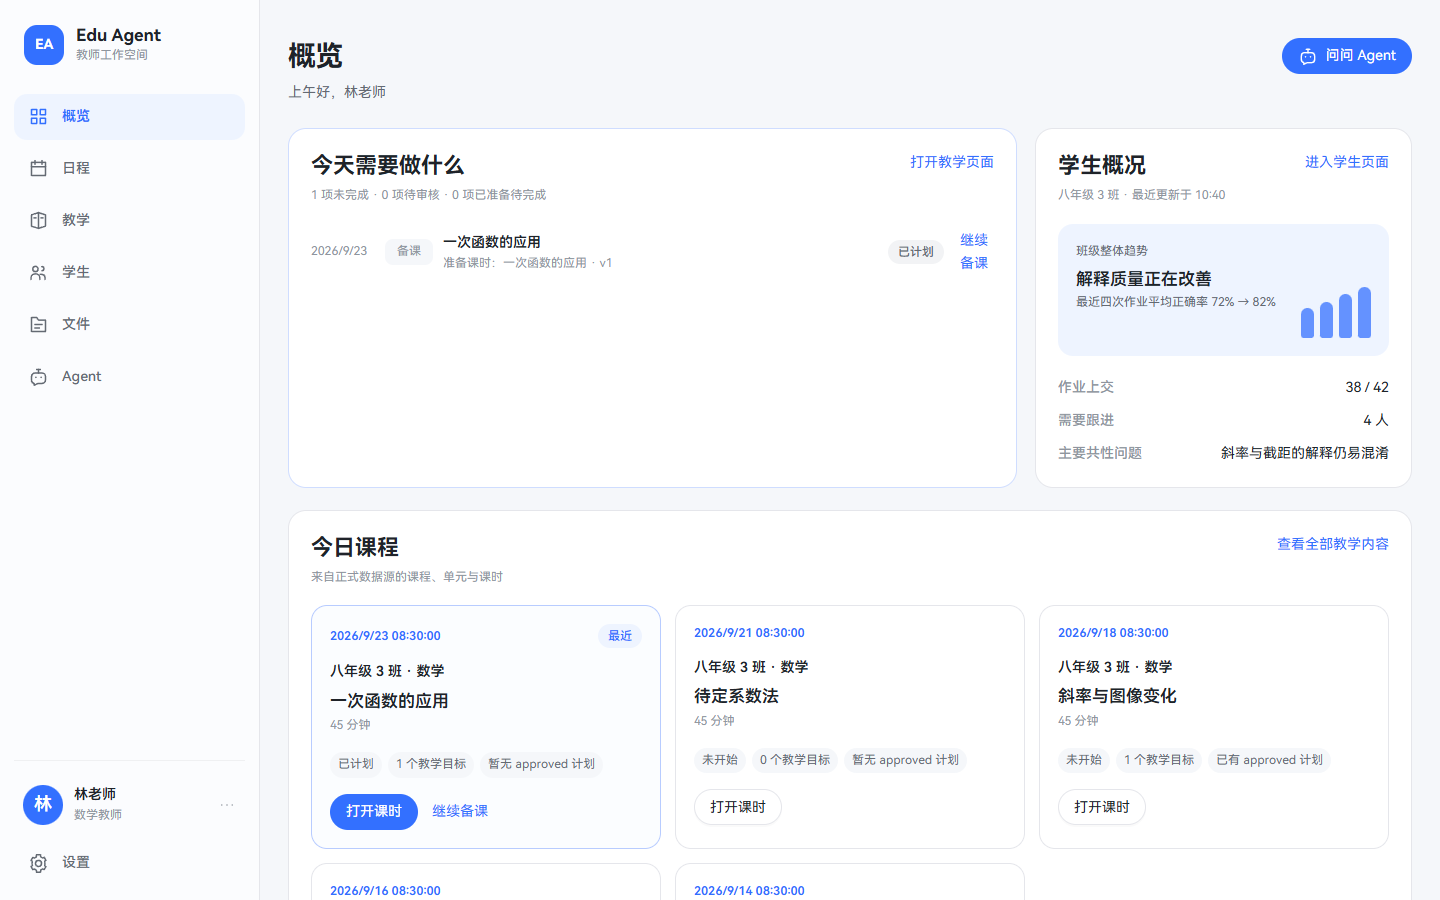
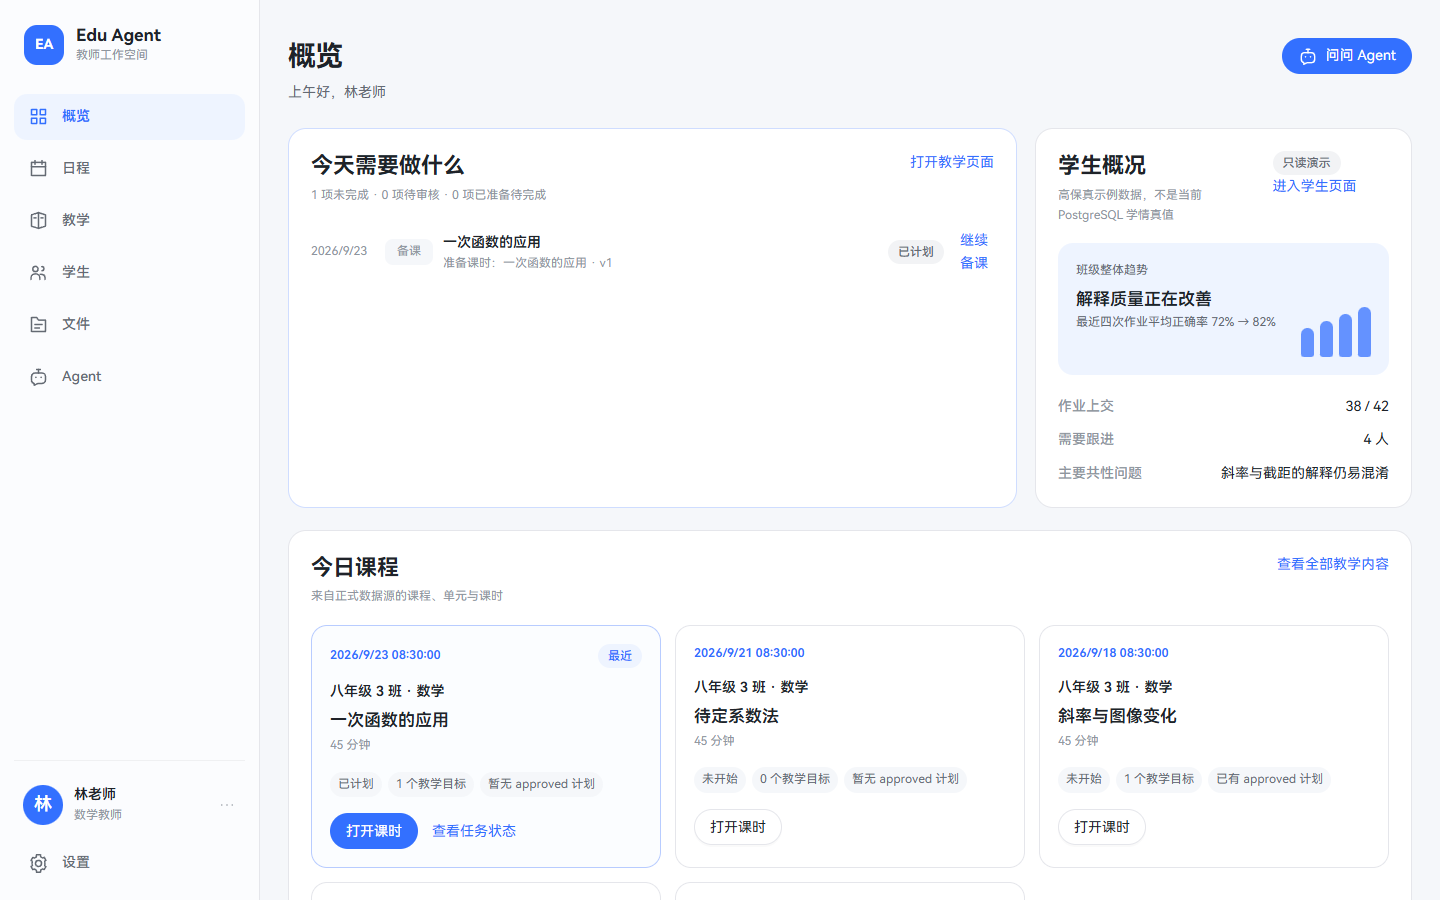
test: verify teacher product consistency and recovery

diff --git a/tests/playwright/teacher-copilot.spec.ts b/tests/playwright/teacher-copilot.spec.ts
@@ -486,6 +486,17 @@ test("Gate 2.4 recovers a teacher request, reviews and approves a plan, then rej
   const firstRequest =
     "根据一次函数学习证据，比较明天课堂的两种调整策略";
   await taskInput.fill(firstRequest);
+  let delayFirstInvocationRead = true;
+  await page.route(/\/model-invocations\/[^/?]+(?:\?.*)?$/, async (route) => {
+    if (
+      delayFirstInvocationRead &&
+      route.request().method() === "GET"
+    ) {
+      delayFirstInvocationRead = false;
+      await new Promise((resolve) => setTimeout(resolve, 700));
+    }
+    await route.continue();
+  });
   const createResponse = page.waitForResponse(
     (response) =>
       response.url().endsWith(
@@ -726,6 +737,7 @@ test("Gate 2.5 completes a recoverable Lesson → Task → Proposal → approved
   await page.getByTestId("generate-copilot").click();
   const createdResponse = await createResponse;
   expect(createdResponse.status()).toBe(202);
+  await expect(page.getByTestId("generate-copilot")).toBeDisabled();
   const created = await createdResponse.json();
   expect(created.execution.taskRef).toBeTruthy();
   expect(
@@ -781,6 +793,17 @@ test("Gate 2.5 completes a recoverable Lesson → Task → Proposal → approved
   await page.getByRole("button", { name: "查看教学计划" }).click();
   await expect(page).toHaveURL(/\/teaching-plan\/tasks\//);
   await expect(
+    page.getByRole("heading", { name: "你正在查看当前待审核版本" })
+  ).toBeVisible();
+  await expect(
+    page.getByRole("heading", { name: "你正在查看历史版本" })
+  ).toHaveCount(0);
+  await page.screenshot({
+    path: `${screenshotRoot}/22-gate2-5c-active-in-review.png`,
+    fullPage: true,
+    animations: "disabled"
+  });
+  await expect(
     page.getByTestId("teaching-plan-preparation-task")
   ).toContainText("awaiting_plan_review");
   await page.getByTestId("approve-teaching-plan").click();
@@ -798,6 +821,20 @@ test("Gate 2.5 completes a recoverable Lesson → Task → Proposal → approved
     initialPlans.currentApproved.revisionRef
   );
   expect(afterApproval.activeInReview).toBeNull();
+
+  await page.getByRole("button", { name: "返回课时" }).click();
+  await expect(page).toHaveURL(
+    /\/teaching\/lessons\/lesson(?:%3A|:)slope-and-graph-change/
+  );
+  await expect(page.getByTestId("finish-ready-preparation")).toBeVisible();
+  await expect(page.getByTestId("start-lesson-preparation")).toHaveCount(0);
+  await page.screenshot({
+    path: `${screenshotRoot}/23-gate2-5c-ready-action.png`,
+    fullPage: true,
+    animations: "disabled"
+  });
+  await page.getByTestId("finish-ready-preparation").click();
+  await expect(page).toHaveURL(/\/teaching-plan\/tasks\//);
 
   const exportResponse = page.waitForResponse(
     (response) =>
@@ -832,6 +869,7 @@ test("Gate 2.5 completes a recoverable Lesson → Task → Proposal → approved
 
   await page.getByRole("button", { name: "返回备课 Task" }).click();
   await expect(page).toHaveURL(/\/agent\/tasks\//);
+  await expect(page.getByTestId("completed-task-review-only")).toBeVisible();
   await taskInput.fill(
     "创建第二条建议，用于验证拒绝不会改变已批准计划。"
   );
@@ -839,6 +877,9 @@ test("Gate 2.5 completes a recoverable Lesson → Task → Proposal → approved
   await expect(
     page.getByRole("heading", { name: "比较教学策略" })
   ).toBeVisible({ timeout: 20_000 });
+  await expect(page.getByTestId("accept-suggestion")).toBeDisabled();
+  await expect(page.getByTestId("edit-suggestion")).toBeDisabled();
+  await expect(page.getByTestId("reject-suggestion")).toBeEnabled();
   await page.getByTestId("reject-suggestion").click();
   await expect(page.getByText("已拒绝")).toBeVisible({
     timeout: 20_000
@@ -899,6 +940,19 @@ test("Gate 2.5 completes a recoverable Lesson → Task → Proposal → approved
   await expect(page.getByTestId("file-version-history")).toContainText("v2");
   await expect(page.getByTestId("file-version-history")).toContainText("v1");
   await expect(
+    page.getByTestId("file-detail").getByRole("button", {
+      name: "创建新版本"
+    })
+  ).toBeDisabled();
+  await expect(
+    page.getByTestId("file-detail").getByRole("button", {
+      name: "创建新版本"
+    })
+  ).toHaveAttribute(
+    "title",
+    "正式教案的新版本只能从新的 approved TeachingPlan Revision 导出"
+  );
+  await expect(
     page.getByTestId("file-detail").getByRole("button", { name: /删\s*除/ })
   ).toBeDisabled();
   await expect(
@@ -939,8 +993,43 @@ test("Gate 2.5 completes a recoverable Lesson → Task → Proposal → approved
 
   await page.goto("/teaching");
   await page.getByTestId("lesson-3").click();
+  await expect(page.getByTestId("lesson-detail")).toContainText("已完成");
+  await expect(
+    page.getByTestId("lesson-detail").getByRole("button", {
+      name: "查看已完成备课"
+    })
+  ).toBeVisible();
   await expect(page.getByTestId("lesson-related-files")).toContainText(
     "斜率与图像变化 教案"
+  );
+  await page
+    .getByTestId("lesson-related-files")
+    .getByRole("button", { name: /斜率与图像变化 教案/ })
+    .click();
+  await expect(page).toHaveURL(
+    /\/files\?asset=.*&lesson=lesson(?:%3A|:)slope-and-graph-change/
+  );
+  await expect(
+    page
+      .getByLabel("上传关联课时")
+      .locator("xpath=ancestor::*[contains(@class, 'ant-select')][1]")
+  ).toContainText("斜率与图像变化");
+  await page.screenshot({
+    path: `${screenshotRoot}/24-gate2-5c-file-context.png`,
+    fullPage: true,
+    animations: "disabled"
+  });
+
+  await page.goto("/teaching");
+  await page.getByTestId("lesson-5").click();
+  await expect(page.getByTestId("lesson-detail")).toContainText("已计划");
+  await page.getByRole("button", { name: "取消备课" }).click();
+  await page.getByRole("button", { name: "确认取消" }).click();
+  await expect(page.getByTestId("lesson-detail")).toContainText("已取消");
+  await page.getByTestId("reopen-lesson-preparation").click();
+  await expect(page).toHaveURL(/\/agent\/tasks\//);
+  await expect(page.getByTestId("task-working-set")).toContainText(
+    "一次函数的应用"
   );
   await assertCleanMonitor(monitor);
 });

diff --git a/tests/postgres/gate2-5b-file-artifacts.test.ts b/tests/postgres/gate2-5b-file-artifacts.test.ts
@@ -296,6 +296,42 @@ describe("Gate 2.5B file and teaching artifact persistence", () => {
       })
       .expect(409)
       .expect(({ body }) => expect(body.code).toBe("FILE_REFERENCED_BY_FORMAL_ARTIFACT"));
+
+    await request(app)
+      .post(apiRoutes.teacher.fileVersions(exported.body.asset.assetRef))
+      .set(demoHeaders)
+      .set(
+        "content-type",
+        "application/vnd.openxmlformats-officedocument.wordprocessingml.document"
+      )
+      .set("x-edu-file-metadata", metadataHeader({
+        originalFileName: "不应覆盖正式导出的教案.docx",
+        mimeType: "application/vnd.openxmlformats-officedocument.wordprocessingml.document",
+        expectedAssetVersion: exported.body.asset.version,
+        purpose: "file.version.create",
+        idempotencyKey: `gate25c:managed-export-version:${randomUUID()}`
+      }))
+      .send(content.body)
+      .expect(409)
+      .expect(({ body }) =>
+        expect(body.code).toBe("TEACHING_PLAN_EXPORT_VERSION_MANAGED")
+      );
+
+    await request(app)
+      .post(apiRoutes.teacher.fileBindings(exported.body.asset.assetRef))
+      .set(demoHeaders)
+      .send({
+        targetType: "teaching_plan_revision",
+        targetRef: "artifact-revision:another-approved-plan",
+        relation: "reference",
+        expectedAssetVersion: exported.body.asset.version,
+        purpose: "file.binding.add",
+        idempotencyKey: `gate25c:managed-export-binding:${randomUUID()}`
+      })
+      .expect(409)
+      .expect(({ body }) =>
+        expect(body.code).toBe("TEACHING_PLAN_EXPORT_BINDING_MANAGED")
+      );
   });
 
   it("extracts a bounded Office summary before persisting an uploaded DOCX", async () => {

diff --git a/tests/unit/teacher-product-stabilization.test.ts b/tests/unit/teacher-product-stabilization.test.ts
@@ -1,0 +1,37 @@
+import { describe, expect, it } from "vitest";
+
+import {
+  lessonPlanProjectionStatusLabel,
+  lessonPreparationStatusLabel,
+  modelExecutionStatusLabel
+} from "../../apps/web/src/presentation.js";
+import { parseAppRoute } from "../../apps/web/src/route.js";
+
+describe("teacher product stabilization vocabulary and navigation", () => {
+  it("keeps completed, ready and review states semantically distinct", () => {
+    expect(lessonPreparationStatusLabel("ready_for_use")).toBe(
+      "已准备，待完成"
+    );
+    expect(lessonPreparationStatusLabel("completed")).toBe("已完成");
+    expect(lessonPlanProjectionStatusLabel("active_in_review")).toBe(
+      "当前待审核"
+    );
+    expect(lessonPlanProjectionStatusLabel("current_approved")).toBe(
+      "当前已批准"
+    );
+    expect(modelExecutionStatusLabel("validating")).toBe("正在验证");
+  });
+
+  it("restores the selected Lesson and FileAsset from a refreshable URL", () => {
+    const route = parseAppRoute(
+      "/files",
+      "?lesson=lesson%3Aslope-and-graph-change&asset=file-asset%3Aapproved-docx"
+    );
+
+    expect(route).toMatchObject({
+      route: "/files",
+      fileLessonRef: "lesson:slope-and-graph-change",
+      fileAssetRef: "file-asset:approved-docx"
+    });
+  });
+});

diff --git a/tests/playwright/teacher-model-provider.spec.ts b/tests/playwright/teacher-model-provider.spec.ts
@@ -41,6 +41,10 @@ test("Fake Ark remains recoverable across timeout, retry, 429, repair failure an
     "请生成一条用于验证超时恢复的合成备课建议。"
   );
   const taskRef = first.execution.taskRef as string;
+  await expect(page.getByTestId("generate-copilot")).toBeDisabled();
+  await expect(page.getByTestId("generation-disabled-reason")).toContainText(
+    "已有模型执行正在进行"
+  );
   await expect(
     page.getByTestId("model-execution-status")
   ).toContainText(/等待生成|正在生成|正在重试/u);
